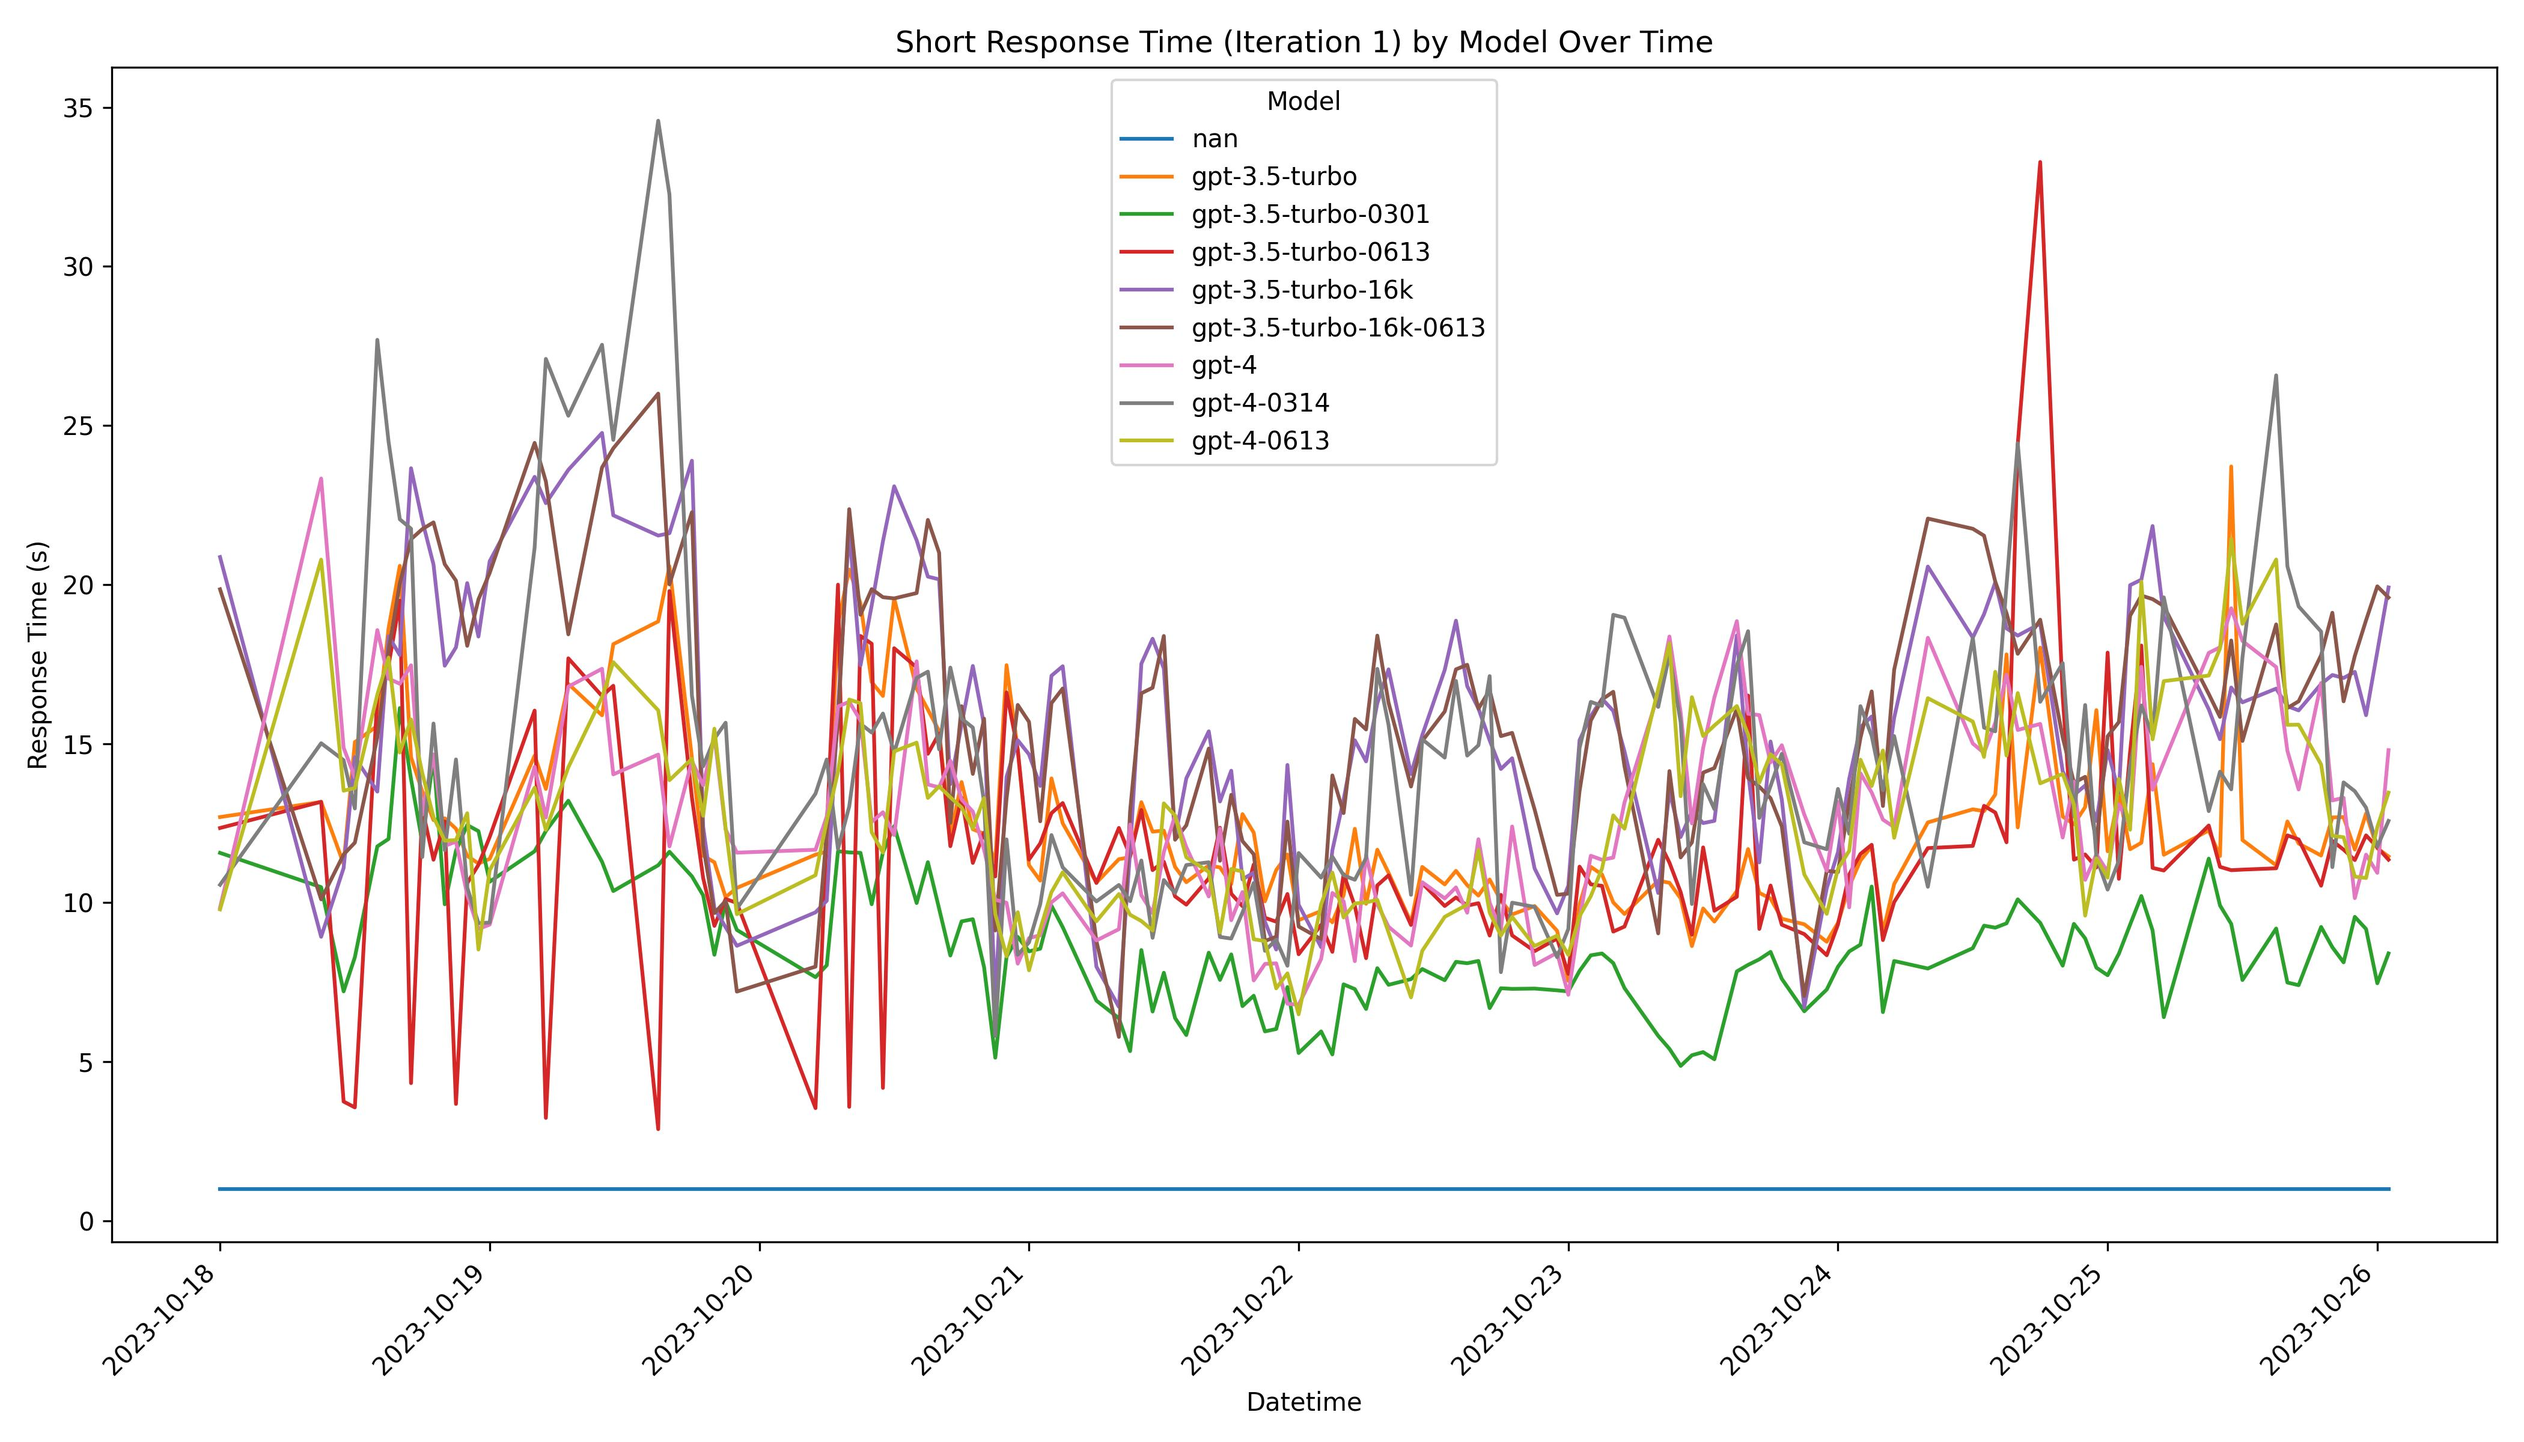
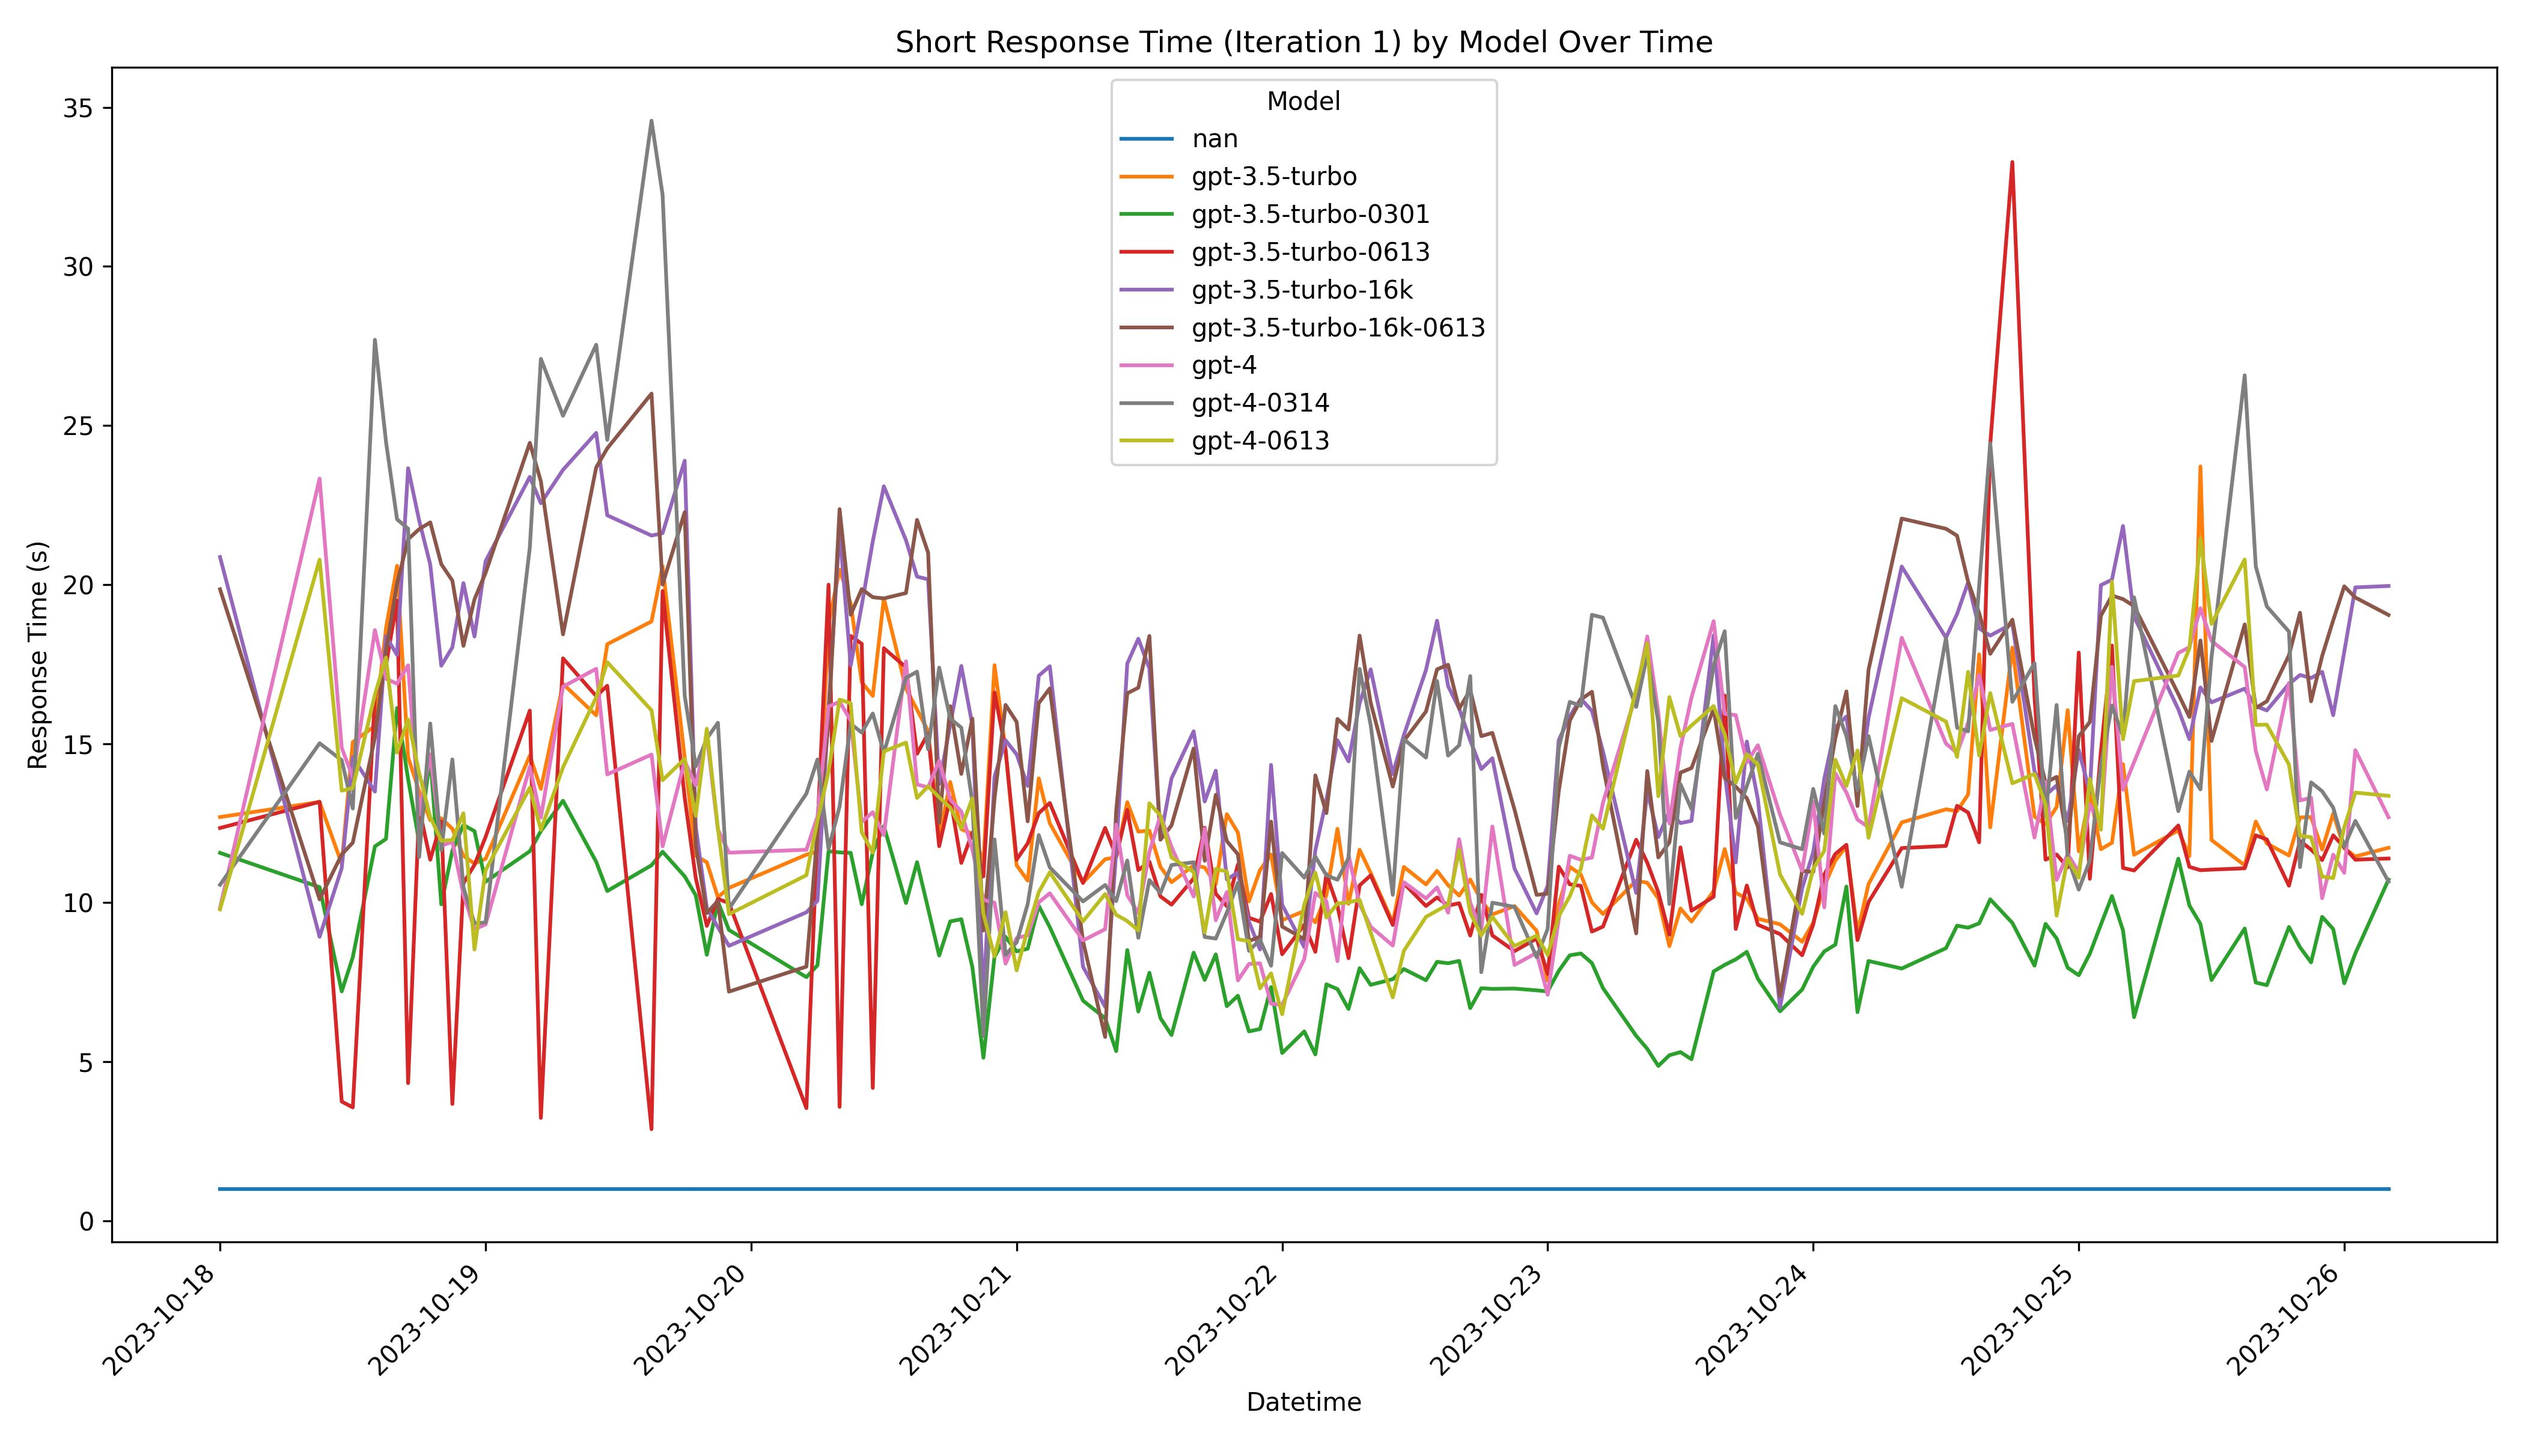
Automated analysis results update - 10/26/23 04:08:12

diff --git a/README.md b/README.md
@@ -3,6 +3,6 @@ the goal of this project is to build a  system to do dump api calls to the opena
 
 ## Latest Plot
 <!-- PLOT-PLACEHOLDER-START -->
-![result](https://github.com/anisayari/openai-api-response-time-audit/blob/main/results/plot-2023102601.jpg?raw=true)
+![result](https://github.com/anisayari/openai-api-response-time-audit/blob/main/results/plot-2023102604.jpg?raw=true)
 ![line chart](https://github.com/anisayari/openai-api-response-time-audit/blob/main/results/line_chart.jpg?raw=true)
 <!-- PLOT-PLACEHOLDER-END -->
